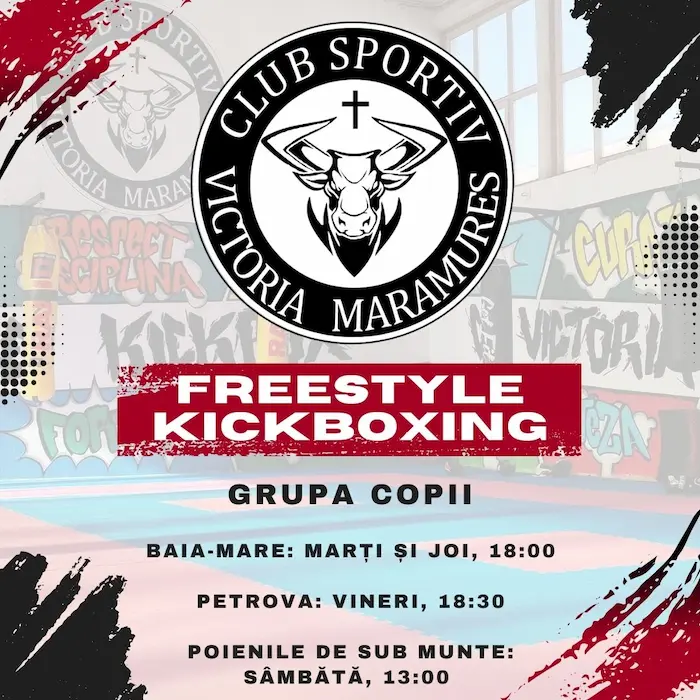
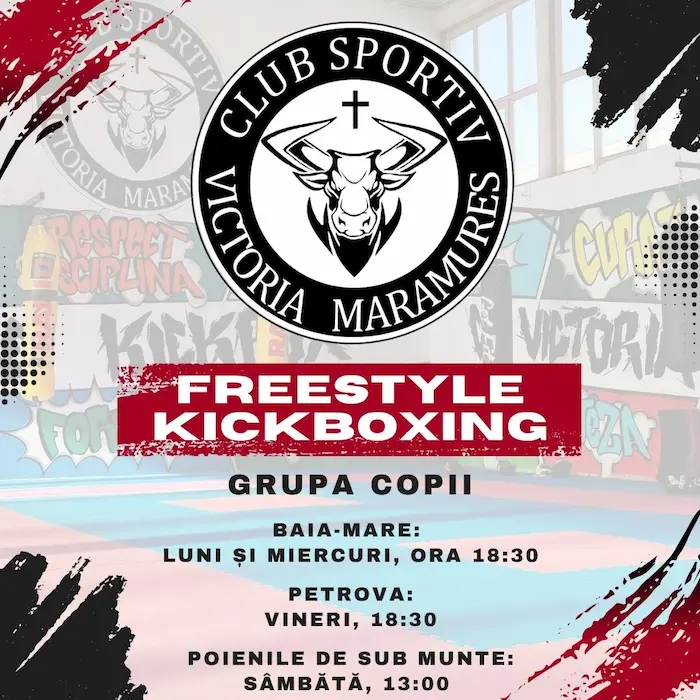
update

diff --git a/resources/views/livewire/prima-pagina.blade.php b/resources/views/livewire/prima-pagina.blade.php
@@ -1,71 +1,100 @@
 <div>
-   <!-- Hero Section -->
-<section class="relative bg-center bg-cover" style="background-image: url('assets/unsplash-image.webp')">
-    <div class="absolute inset-0 bg-white opacity-50"></div>
-    <div class="container relative z-10 px-4 py-8 mx-auto">
-        <h1 class="mb-4 text-4xl font-bold text-center text-black md:text-6xl md:text-left font-roboto-condensed">Club Sportiv <br class="md:hidden"> Victoria
-            Maramureș</h1>
-        <h2 class="max-w-2xl p-2 mb-8 text-xl font-semibold text-center text-black md:text-left md:text-2xl">Promovăm sportul de
-            <span class="font-bold text-red-900">performanță</span> și sportul pentru toți în Baia-Mare, Poienile de sub Munte și Petrova. Antrenamente de
-            <span class="font-bold text-red-900">Freestyle Kickboxing</span> și Fitness Funcțional în Baia Mare | Grupe de copii si adulti.</h2>
+    <!-- Hero Section -->
+    <section class="relative bg-center bg-cover" style="background-image: url('assets/unsplash-image.webp')">
+        <div class="absolute inset-0 bg-white opacity-50"></div>
+        <div class="container relative z-10 px-4 py-8 mx-auto">
+            <h1 class="mb-4 text-4xl font-bold text-center text-black md:text-6xl md:text-left font-roboto-condensed">
+                Club Sportiv <br class="md:hidden"> Victoria
+                Maramureș</h1>
+            <h2 class="max-w-2xl p-2 mb-8 text-xl font-semibold text-center text-black md:text-left md:text-2xl">Promovăm
+                sportul de
+                <span class="font-bold text-red-900">performanță</span> și sportul pentru toți în Baia-Mare, Poienile de
+                sub Munte și Petrova. Antrenamente de
+                <span class="font-bold text-red-900">Freestyle Kickboxing</span> și Fitness Funcțional în Baia Mare |
+                Grupe de copii si adulti.
+            </h2>
 
-        <div class="flex justify-center px-4 space-x-8 md:justify-start">
-            <a href="https://www.tiktok.com/@csvictoriamm" target="_blank" rel="noopener noreferrer"
-                class="text-black hover:text-red-900"><i class="fa-brands fa-tiktok fa-2x"></i></a>
-            <a href="https://www.youtube.com/channel/UCFfZgsuQCT8nPSY8DvcqZhw" target="_blank"
-                rel="noopener noreferrer" class="text-black hover:text-red-900"><i
-                    class="fa-brands fa-youtube fa-2x"></i></a>
-            <a href="https://www.facebook.com/victoriamaramures" target="_blank" rel="noopener noreferrer"
-                class="text-black hover:text-red-900"><i class="fa-brands fa-facebook fa-2x"></i></a>
-            <a href="https://www.instagram.com/csvictoriamm" target="_blank" rel="noopener noreferrer"
-                class="text-black hover:text-red-900"><i class="fa-brands fa-instagram fa-2x"></i></a>
+            <div class="flex justify-center px-4 space-x-8 md:justify-start">
+                <a href="https://www.tiktok.com/@csvictoriamm" target="_blank" rel="noopener noreferrer"
+                    class="text-black hover:text-red-900"><i class="fa-brands fa-tiktok fa-2x"></i></a>
+                <a href="https://www.youtube.com/channel/UCFfZgsuQCT8nPSY8DvcqZhw" target="_blank"
+                    rel="noopener noreferrer" class="text-black hover:text-red-900"><i
+                        class="fa-brands fa-youtube fa-2x"></i></a>
+                <a href="https://www.facebook.com/victoriamaramures" target="_blank" rel="noopener noreferrer"
+                    class="text-black hover:text-red-900"><i class="fa-brands fa-facebook fa-2x"></i></a>
+                <a href="https://www.instagram.com/csvictoriamm" target="_blank" rel="noopener noreferrer"
+                    class="text-black hover:text-red-900"><i class="fa-brands fa-instagram fa-2x"></i></a>
+            </div>
         </div>
-    </div>
-</section>
+    </section>
 
-<section class="py-8 bg-white">
-    <div class="container px-4 mx-auto">
-        <div class="flex flex-col md:flex-row md:space-x-12">
-            <!-- Coloana stângă (imagini) -->
-            <div class="w-full md:w-1/3 md:sticky md:top-8 md:self-start">
-                <div x-data="{ currentImage: 0 }" class="space-y-8">
-                    <div class="relative overflow-hidden rounded-lg shadow-xl aspect-square">
-                        <img src="/assets/antrenamente.webp" 
-                             alt="Antrenamente Kickbox Baia Mare" 
-                             class="absolute inset-0 object-contain w-full h-full transition-opacity duration-500"
-                             :class="{ 'opacity-100': currentImage === 0, 'opacity-0': currentImage === 1 }">
-                        <img src="/assets/antrenamente-copii.webp" 
-                             alt="Antrenamente Kickbox Baia Mare pentru copii" 
-                             class="absolute inset-0 object-contain w-full h-full transition-opacity duration-500"
-                             :class="{ 'opacity-100': currentImage === 1, 'opacity-0': currentImage === 0 }">
-                    </div>
-                    <div class="flex flex-col justify-center mt-4 space-y-2 sm:flex-row sm:space-y-0 sm:space-x-4">
-                        <button @click="currentImage = 0" 
+    <section class="py-8 bg-white">
+        <div class="container px-4 mx-auto">
+            <div class="flex flex-col md:flex-row md:space-x-12">
+                <!-- Coloana stângă (imagini) -->
+                <div class="w-full md:w-1/3 md:sticky md:top-8 md:self-start">
+                    <div x-data="{ currentImage: 0 }" class="space-y-8">
+                        <div class="relative overflow-hidden rounded-lg shadow-xl aspect-square">
+                            <img src="/assets/antrenamente.webp" alt="Antrenamente Kickbox Baia Mare"
+                                class="absolute inset-0 object-contain w-full h-full transition-opacity duration-500"
+                                :class="{ 'opacity-100': currentImage === 0, 'opacity-0': currentImage === 1 }">
+                            <img src="/assets/antrenamente-copii.webp" alt="Antrenamente Kickbox Baia Mare pentru copii"
+                                class="absolute inset-0 object-contain w-full h-full transition-opacity duration-500"
+                                :class="{ 'opacity-100': currentImage === 1, 'opacity-0': currentImage === 0 }">
+                        </div>
+                        <div class="flex flex-col justify-center mt-4 space-y-2 sm:flex-row sm:space-y-0 sm:space-x-4">
+                            <button @click="currentImage = 0"
                                 class="px-4 py-2 text-sm font-semibold transition-colors duration-300 rounded sm:text-base focus:outline-none focus:ring-2 focus:ring-red-800"
-                                :class="{ 'bg-red-900 text-white': currentImage === 0, 'bg-gray-200 text-gray-700 hover:bg-gray-300': currentImage !== 0 }">
-                            Antrenamente Adulți
-                        </button>
-                        <button @click="currentImage = 1" 
+                                :class="{
+                                    'bg-red-900 text-white': currentImage ===
+                                        0,
+                                    'bg-gray-200 text-gray-700 hover:bg-gray-300': currentImage !== 0
+                                }">
+                                Antrenamente Adulți
+                            </button>
+                            <button @click="currentImage = 1"
                                 class="px-4 py-2 text-sm font-semibold transition-colors duration-300 rounded sm:text-base focus:outline-none focus:ring-2 focus:ring-red-800"
-                                :class="{ 'bg-red-900 text-white': currentImage === 1, 'bg-gray-200 text-gray-700 hover:bg-gray-300': currentImage !== 1 }">
-                            Antrenamente Copii
-                        </button>
+                                :class="{
+                                    'bg-red-900 text-white': currentImage ===
+                                        1,
+                                    'bg-gray-200 text-gray-700 hover:bg-gray-300': currentImage !== 1
+                                }">
+                                Antrenamente Copii
+                            </button>
+                        </div>
                     </div>
                 </div>
-            </div>
                 <div class="w-full mt-8 md:w-2/3 md:mt-0">
                     <h2 class="mb-6 text-4xl font-bold text-red-900 font-roboto-condensed">Despre noi</h2>
                     <div class="space-y-4 text-lg" x-data="{ expanded: false }">
-                        <p class="mb-4 text-xl"><strong>Clubul Sportiv Victoria Maramureș</strong> a fost înființat în 2021 și își desfășoară activitatea în Baia Mare, Poienile de Sub Munte și Petrova, având scopul de a promova sportul și un stil de viață sănătos în comunitatea locală.</p>
-                        <p class="mb-4 text-xl">Ceea ce a început ca un club mic, pasionat de artele marțiale, a evoluat rapid într-o comunitate puternică de atleți dedicați, cuprinzând atât copii, cât și adulți.</p>
-                        <div x-show="expanded" x-transition:enter="transition ease-out duration-300" x-transition:enter-start="opacity-0 transform -translate-y-4" x-transition:enter-end="opacity-100 transform translate-y-0">
-                            <p class="mb-4 text-xl">Suntem afiliati ai <strong>Federatiei Romane de Freestyle Kickboxing</strong> si participam anual la competitii nationale si internationale. Am castigat multe medalii și trofee prețioase, dar cea mai mare realizare a noastră rămâne impactul pozitiv asupra vieților tinerilor și adulților care s-au alăturat clubului de-a lungul timpului.</p>
-                            <p class="mb-4 text-xl">Clubul nostru promovează valorile <strong>respectului</strong> și ale <strong>disciplinei personale.</strong></p>
-                            <p class="mb-4 text-xl">Suntem profesioniști dedicați, cu experiență în domeniu si certificări naționale relevante. Ne concentram pe furnizarea celor mai bune sesiuni de antrenament pentru toți membrii clubului, indiferent de vârstă sau nivel.</p>
-                            <p class="mb-4 text-xl">Promovăm <strong>kickboxingul</strong> de <strong>performanță</strong> și <strong>sportul pentru toți</strong>, promovăm in comunitatea noastra un stil de viață mai sănătos și activ prin antrenamente de autoaparare. Ne gasesti in Baia-Mare, Poienile de sub Munte si Petrova.</p>
+                        <p class="mb-4 text-xl"><strong>Clubul Sportiv Victoria Maramureș</strong> a fost înființat în
+                            2021 și își desfășoară activitatea în Baia Mare, Poienile de Sub Munte și Petrova, având
+                            scopul de a promova sportul și un stil de viață sănătos în comunitatea locală.</p>
+                        <p class="mb-4 text-xl">Ceea ce a început ca un club mic, pasionat de artele marțiale, a evoluat
+                            rapid într-o comunitate puternică de atleți dedicați, cuprinzând atât copii, cât și adulți.
+                        </p>
+                        <div x-show="expanded" x-transition:enter="transition ease-out duration-300"
+                            x-transition:enter-start="opacity-0 transform -translate-y-4"
+                            x-transition:enter-end="opacity-100 transform translate-y-0">
+                            <p class="mb-4 text-xl">Suntem afiliati ai <strong>Federatiei Romane de Freestyle
+                                    Kickboxing</strong> si participam anual la competitii nationale si internationale.
+                                Am castigat multe medalii și trofee prețioase, dar cea mai mare realizare a noastră
+                                rămâne impactul pozitiv asupra vieților tinerilor și adulților care s-au alăturat
+                                clubului de-a lungul timpului.</p>
+                            <p class="mb-4 text-xl">Clubul nostru promovează valorile <strong>respectului</strong> și
+                                ale <strong>disciplinei personale.</strong></p>
+                            <p class="mb-4 text-xl">Suntem profesioniști dedicați, cu experiență în domeniu si
+                                certificări naționale relevante. Ne concentram pe furnizarea celor mai bune sesiuni de
+                                antrenament pentru toți membrii clubului, indiferent de vârstă sau nivel.</p>
+                            <p class="mb-4 text-xl">Promovăm <strong>kickboxingul</strong> de
+                                <strong>performanță</strong> și <strong>sportul pentru toți</strong>, promovăm in
+                                comunitatea noastra un stil de viață mai sănătos și activ prin antrenamente de
+                                autoaparare. Ne gasesti in Baia-Mare, Poienile de sub Munte si Petrova.
+                            </p>
                             <p class="mb-4 text-xl">Organizăm sesiuni de probă gratuite în fiecare zi.</p>
                         </div>
-                        <button @click="expanded = !expanded" class="px-4 py-2 mt-4 text-white transition-colors duration-300 bg-red-900 rounded hover:bg-red-800 focus:outline-none focus:ring-2 focus:ring-red-800 focus:ring-opacity-50">
+                        <button @click="expanded = !expanded"
+                            class="px-4 py-2 mt-4 text-white transition-colors duration-300 bg-red-900 rounded hover:bg-red-800 focus:outline-none focus:ring-2 focus:ring-red-800 focus:ring-opacity-50">
                             <span x-text="expanded ? 'Citește mai puțin' : 'Citește mai mult'"></span>
                         </button>
                     </div>
@@ -74,8 +103,8 @@
                         <div class="space-y-2">
                             <p><strong>Baia Mare:</strong></p>
                             <ul class="list-disc list-inside">
-                                <li>Luni - Joi, 19:15 - Grupa adulți și juniori mari</li>
-                                <li>Marți și Joi, 18:00 - Grupa copii (6-12 ani)</li>
+                                <li>Luni și Miercuri, 18:30 - Grupa copii (6-12 ani)</li>
+                                <li>Luni și Miercuri, 19:35 - Grupa adulți și juniori mari</li>
                             </ul>
                             <p><strong>Petrova:</strong> Vineri, 18:30 - Grupa mixtă</p>
                             <p><strong>Poienile de sub Munte:</strong> Sâmbătă, 13:00 - Grupa mixtă</p>
@@ -84,7 +113,7 @@
                     <p class="mt-8 italic text-red-900">Ioan Mihalca, antrenor</p>
                 </div>
             </div>
-               <!--Google Reviews -->
+            <!--Google Reviews -->
             <div class="container p-8 mt-4">
                 <div class="elfsight-app-630db31d-36a2-4674-90a9-e4b40d06b39e" data-elfsight-app-lazy></div>
             </div>
@@ -96,110 +125,119 @@
 
     </section>
 
-<!-- Parallax Section -->
-<section class="relative bg-fixed bg-center bg-cover h-96" style="background-image: url('assets/OG-VictoriaMM.webp')">
-    <div class="absolute inset-0 bg-black opacity-50"></div>
-    <div class="absolute inset-0 flex items-center justify-center">
-        <h2 class="text-4xl font-bold text-white md:text-6xl font-roboto-condensed">Performanță și Pasiune</h2>
-    </div>
-</section>
-
-<!-- Why Us Section -->
-<section class="py-20 bg-white">
-    <div class="container px-4 mx-auto">
-        <h2 class="mb-12 text-4xl font-bold text-center text-red-900 font-roboto-condensed">De ce noi?</h2>
-        <div class="grid gap-12 md:grid-cols-3">
-            <div class="space-y-8">
-                <div>
-                    <h3 class="mb-3 text-2xl font-semibold text-red-900">Pregătiți Temeinic, Implicați Deplin</h3>
-                    <p class="text-lg">Pregătirea noastră temeinică, combinată cu pasiunea și dăruirea, se reflectă în fiecare sesiune de antrenament.</p>
-                </div>
-                <div>
-                    <h3 class="mb-3 text-2xl font-semibold text-red-900">Atmosferă Prietenoasă și Motivantă</h3>
-                    <p class="text-lg">Creăm o atmosferă bazată pe respect reciproc, încurajând membrii să se simtă confortabil și să se bucure de antrenamente.</p>
-                </div>
-            </div>
-            <div class="flex items-center justify-center">
-                <img src="/assets/csvictoriamm-colaj.webp" alt="CS Victoria Colaj" class="rounded-lg shadow-xl">
-            </div>
-            <div class="space-y-8">
-                <div>
-                    <h3 class="mb-3 text-2xl font-semibold text-red-900">Sală de Kickboxing în Baia Mare</h3>
-                    <p class="text-lg">Oferim un mediu optim pentru antrenament și progres, cu o sală special amenajată și toate echipamentele necesare.</p>
-                </div>
-                <div>
-                    <h3 class="mb-3 text-2xl font-semibold text-red-900">Progres Constant și Dezvoltare Personală</h3>
-                    <p class="text-lg">Ne concentrăm pe dezvoltarea fiecărui sportiv, îmbunătățind nu doar abilitățile fizice, ci și încrederea în sine și disciplina personală.</p>
-                </div>
-            </div>
+    <!-- Parallax Section -->
+    <section class="relative bg-fixed bg-center bg-cover h-96"
+        style="background-image: url('assets/OG-VictoriaMM.webp')">
+        <div class="absolute inset-0 bg-black opacity-50"></div>
+        <div class="absolute inset-0 flex items-center justify-center">
+            <h2 class="text-4xl font-bold text-white md:text-6xl font-roboto-condensed">Performanță și Pasiune</h2>
         </div>
-    </div>
-</section>
+    </section>
 
-<!-- Partners Carousel -->
-<section class="py-16 bg-gray-100" x-data="carousel()">
-    <div class="container px-4 mx-auto">
-        <h2 class="mb-12 text-4xl font-bold text-center text-red-900 font-roboto-condensed">Prietenii Noștri</h2>
-        <div class="relative overflow-hidden">
-            <div class="flex transition-transform duration-500 ease-in-out" :style="{ transform: `translateX(-${currentTranslate}%)` }">
-                <template x-for="image in displayImages">
-                    <div class="flex-shrink-0 w-1/3 px-2 md:w-1/5">
-                        <div class="flex items-center justify-center p-4 bg-white rounded-lg shadow-md aspect-square">
-                            <img :src="image" alt="Logo partener" class="object-contain max-w-full max-h-full">
-                        </div>
+    <!-- Why Us Section -->
+    <section class="py-20 bg-white">
+        <div class="container px-4 mx-auto">
+            <h2 class="mb-12 text-4xl font-bold text-center text-red-900 font-roboto-condensed">De ce noi?</h2>
+            <div class="grid gap-12 md:grid-cols-3">
+                <div class="space-y-8">
+                    <div>
+                        <h3 class="mb-3 text-2xl font-semibold text-red-900">Pregătiți Temeinic, Implicați Deplin</h3>
+                        <p class="text-lg">Pregătirea noastră temeinică, combinată cu pasiunea și dăruirea, se reflectă
+                            în fiecare sesiune de antrenament.</p>
                     </div>
-                </template>
+                    <div>
+                        <h3 class="mb-3 text-2xl font-semibold text-red-900">Atmosferă Prietenoasă și Motivantă</h3>
+                        <p class="text-lg">Creăm o atmosferă bazată pe respect reciproc, încurajând membrii să se simtă
+                            confortabil și să se bucure de antrenamente.</p>
+                    </div>
+                </div>
+                <div class="flex items-center justify-center">
+                    <img src="/assets/csvictoriamm-colaj.webp" alt="CS Victoria Colaj" class="rounded-lg shadow-xl">
+                </div>
+                <div class="space-y-8">
+                    <div>
+                        <h3 class="mb-3 text-2xl font-semibold text-red-900">Sală de Kickboxing în Baia Mare</h3>
+                        <p class="text-lg">Oferim un mediu optim pentru antrenament și progres, cu o sală special
+                            amenajată și toate echipamentele necesare.</p>
+                    </div>
+                    <div>
+                        <h3 class="mb-3 text-2xl font-semibold text-red-900">Progres Constant și Dezvoltare Personală
+                        </h3>
+                        <p class="text-lg">Ne concentrăm pe dezvoltarea fiecărui sportiv, îmbunătățind nu doar
+                            abilitățile fizice, ci și încrederea în sine și disciplina personală.</p>
+                    </div>
+                </div>
             </div>
         </div>
-    </div>
-</section>
+    </section>
 
-<script>
-function carousel() {
-    return {
-        currentIndex: 0,
-        currentTranslate: 0,
-        itemsToShow: window.innerWidth < 768 ? 3 : 5,
-        images: [
-            '/assets/logouri/ARMURA.webp',
-            '/assets/logouri/Federatia-Romana-de-Freestyle-Kickboxing.webp',
-            '/assets/logouri/Click-Music-Romania.jpg',
-            '/assets/logouri/Plai-Morosenesc.jpg',
-            '/assets/logouri/acs-kickbox-.webp',
-            '/assets/logouri/cs-dragonul-baia-mare.webp',
-            '/assets/logouri/clickstudiosdigital.jpg',
-        ],
-        get displayImages() {
-            return [...this.images, ...this.images.slice(0, this.itemsToShow)];
-        },
-        next() {
-            this.currentIndex = (this.currentIndex + 1) % this.images.length;
-            this.currentTranslate = (this.currentIndex * (100 / this.itemsToShow));
-            
-            if (this.currentIndex === 0) {
-                setTimeout(() => {
-                    this.currentTranslate = 0;
-                    this.$el.querySelector('.flex').style.transition = 'none';
-                    setTimeout(() => {
-                        this.$el.querySelector('.flex').style.transition = '';
-                    }, 50);
-                }, 500);
-            }
-        },
-        init() {
-            setInterval(() => this.next(), 3000);
-            window.addEventListener('resize', () => {
-               const newItemsToShow = window.innerWidth < 768 ? 3 : 5;
-                if (newItemsToShow !== this.itemsToShow) {
-                    this.itemsToShow = newItemsToShow;
-                    this.currentIndex = 0;
-                    this.currentTranslate = 0;
+    <!-- Partners Carousel -->
+    <section class="py-16 bg-gray-100" x-data="carousel()">
+        <div class="container px-4 mx-auto">
+            <h2 class="mb-12 text-4xl font-bold text-center text-red-900 font-roboto-condensed">Prietenii Noștri</h2>
+            <div class="relative overflow-hidden">
+                <div class="flex transition-transform duration-500 ease-in-out"
+                    :style="{ transform: `translateX(-${currentTranslate}%)` }">
+                    <template x-for="image in displayImages">
+                        <div class="flex-shrink-0 w-1/3 px-2 md:w-1/5">
+                            <div
+                                class="flex items-center justify-center p-4 bg-white rounded-lg shadow-md aspect-square">
+                                <img :src="image" alt="Logo partener"
+                                    class="object-contain max-w-full max-h-full">
+                            </div>
+                        </div>
+                    </template>
+                </div>
+            </div>
+        </div>
+    </section>
+
+    <script>
+        function carousel() {
+            return {
+                currentIndex: 0,
+                currentTranslate: 0,
+                itemsToShow: window.innerWidth < 768 ? 3 : 5,
+                images: [
+                    '/assets/logouri/ARMURA.webp',
+                    '/assets/logouri/Federatia-Romana-de-Freestyle-Kickboxing.webp',
+                    '/assets/logouri/Click-Music-Romania.jpg',
+                    '/assets/logouri/Plai-Morosenesc.jpg',
+                    '/assets/logouri/acs-kickbox-.webp',
+                    '/assets/logouri/cs-dragonul-baia-mare.webp',
+                    '/assets/logouri/clickstudiosdigital.jpg',
+                ],
+                get displayImages() {
+                    return [...this.images, ...this.images.slice(0, this.itemsToShow)];
+                },
+                next() {
+                    this.currentIndex = (this.currentIndex + 1) % this.images.length;
+                    this.currentTranslate = (this.currentIndex * (100 / this.itemsToShow));
+
+                    if (this.currentIndex === 0) {
+                        setTimeout(() => {
+                            this.currentTranslate = 0;
+                            this.$el.querySelector('.flex').style.transition = 'none';
+                            setTimeout(() => {
+                                this.$el.querySelector('.flex').style.transition = '';
+                            }, 50);
+                        }, 500);
+                    }
+                },
+                init() {
+                    setInterval(() => this.next(), 3000);
+                    window.addEventListener('resize', () => {
+                        const newItemsToShow = window.innerWidth < 768 ? 3 : 5;
+                        if (newItemsToShow !== this.itemsToShow) {
+                            this.itemsToShow = newItemsToShow;
+                            this.currentIndex = 0;
+                            this.currentTranslate = 0;
+                        }
+                    });
                 }
-            });
+            }
         }
-    }
-}
-</script>
+    </script>
 
 
 </div>
